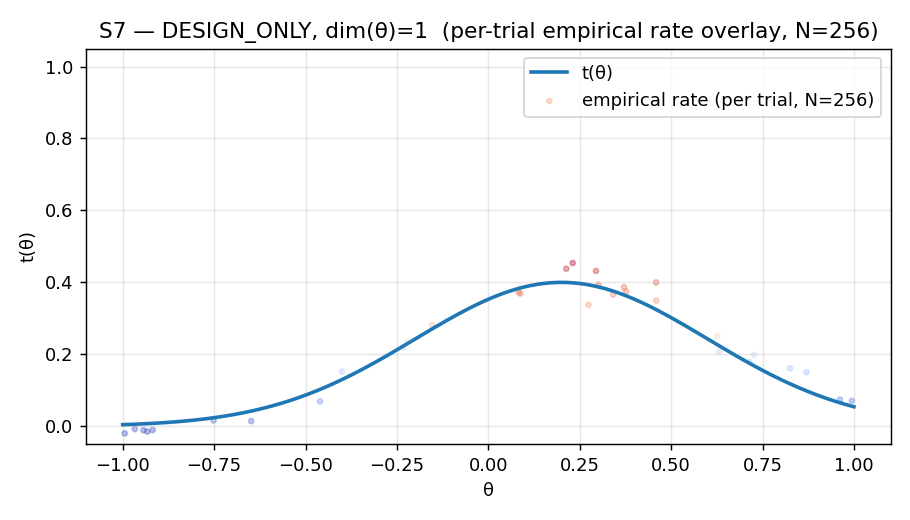
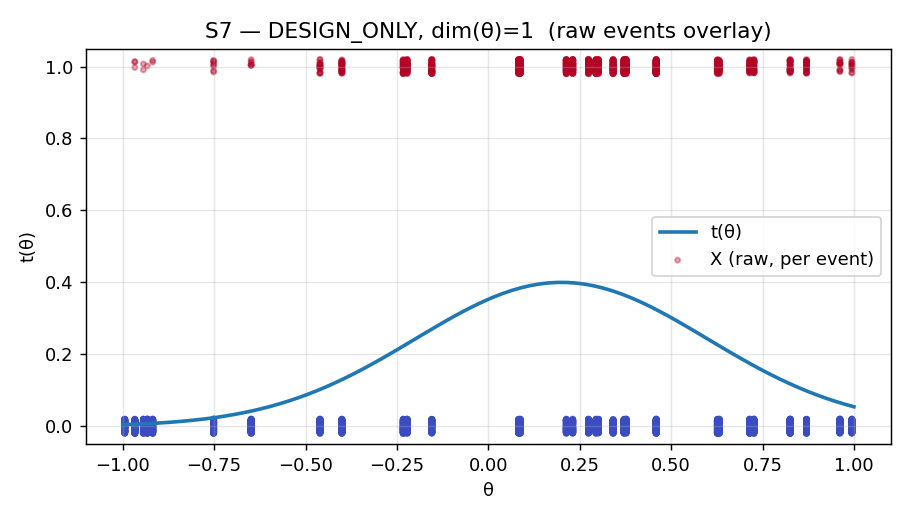
chore(viz): consistent raw-event dots + θ-projection plots
Two plotting conventions tightened up across Phase 1 and Phase 3:

1. Dots are always raw per-event (θ_k, X_ki) — never per-trial
   aggregates. Affects S7 in both phases (was per-trial empirical
   rate, now individual binary X). Visually you now see two horizontal
   stripes: y=0 (where X=0, dense everywhere) and y=1 (where X=1, the
   density along θ traces p(θ) directly).

2. Whenever dim(θ)=1, add a 1-D θ-projection plot. For DESIGN_ONLY
   (S7) the existing main plot already does this. For FULL with 1-D θ
   (S1, S3) the main plot is 2-D, so a separate `_theta.png` is added
   showing the φ-marginalized curves p̄(θ) and (in Phase 3) β̄(θ),
   estimated by MC over a uniform φ sample. Raw event dots overlay.

New artifacts:
  viz_output/pseudo_ground_truth_S1_theta.png
  viz_output/pseudo_ground_truth_S3_theta.png
  viz_output/cnp_reconstruction_S1_theta.png
  viz_output/cnp_reconstruction_S3_theta.png

Updated:
  viz_output/pseudo_ground_truth_S7.png
  viz_output/cnp_reconstruction_S7.png

Sanity: in S7's Phase-3 plot the predicted β closely tracks the
analytical p (peak ≈0.4 at θ≈0.2); raw red dots cluster densely at
y=1 near the peak and thin out toward the edges, which is the
direct visual signature of p(θ).

diff --git a/scripts/phase3_plot_reconstruction.py b/scripts/phase3_plot_reconstruction.py
@@ -189,13 +189,15 @@ def plot_S7(out: Path) -> None:
     tgt = StandardBatch(mode=InputMode.DESIGN_ONLY, theta=theta, labels=tgt_labels)
     beta = _predict_at(cnp, ctx, tgt)[:, 0]   # [G]
 
-    rate = ctx.labels.mean(axis=1)
-    overlay = (theta[:, 0], rate)
+    # Raw event dots: one per (trial, event_index_in_trial).
+    raw_theta = np.repeat(theta[:, 0], N_CTX)
+    raw_x = ctx.labels.flatten().astype(float)
     plot_comparison_1d(
         x=grid, analytical=p, predicted=beta, out_path=out,
-        title=f"S7 — DESIGN_ONLY, dim(θ)=1: analytical p vs predicted β (per-trial overlay, N={N_CTX})",
-        xlabel="θ", overlay_xy=overlay,
-        overlay_label=f"empirical rate per trial (N={N_CTX})",
+        title="S7 — DESIGN_ONLY, dim(θ)=1: analytical p vs predicted β",
+        xlabel="θ",
+        overlay_xy=(raw_theta, raw_x),
+        overlay_label="X (raw, per event)",
     )
 
 
@@ -366,6 +368,65 @@ PLOTTERS: dict[str, Callable[[Path], None]] = {
     "S5": plot_S5, "S6": plot_S6, "S7": plot_S7, "S8": plot_S8,
 }
 
+# Scenarios where dim(θ)=1 AND the main plot is 2D — these get an extra
+# 1-D θ-projection plot. S7 already shows θ as its main plot so it's
+# handled separately (we only fix its dot semantics there).
+THETA_1D_EXTRA_FOR = {"S1", "S3"}
+
+
+def _theta_marginal_predicted(
+    gen, cnp, theta_grid: np.ndarray, n_phi_mc: int = 200, seed: int = 11,
+) -> tuple[np.ndarray, np.ndarray]:
+    """Predict the φ-marginalized ``β̄(θ)`` and analytical ``p̄(θ)``.
+
+    Used for FULL-mode scenarios when projecting onto θ. ``ctx`` is
+    returned alongside the curves so the caller can scatter the raw
+    binary X events at each trial's θ.
+    """
+    rng = np.random.default_rng(seed)
+    G = theta_grid.shape[0]
+    theta = theta_grid[:, None]                                 # [G, 1]
+    phi_mc = rng.uniform(-1.0, 1.0, size=(G, n_phi_mc, gen.dim_phi))
+
+    # Analytical p̄(θ) via MC over φ.
+    theta_per_event = theta[:, None, :]
+    p_at_phi = gen.truth.evaluate(theta=theta_per_event, phi=phi_mc)  # [G, n_phi_mc]
+    p_curve = p_at_phi.mean(axis=1)
+
+    # Predicted β̄(θ) via MC over φ for each θ.
+    ctx = _build_context_FULL(gen, theta=theta, n_ctx=N_CTX, seed=seed)
+    tgt_labels = np.zeros((G, n_phi_mc), dtype=np.int8)
+    tgt = StandardBatch(
+        mode=InputMode.FULL, theta=theta, phi=phi_mc, labels=tgt_labels
+    )
+    beta_at_phi = _predict_at(cnp, ctx, tgt)                    # [G, n_phi_mc]
+    beta_curve = beta_at_phi.mean(axis=1)
+    return p_curve, beta_curve, ctx
+
+
+def _plot_theta_1d_full(name: str, gen, cnp, out_path: Path) -> None:
+    """θ-marginal 1-D plot for FULL-mode scenarios (S1, S3)."""
+    theta_grid = _grid_1d()
+    p_curve, beta_curve, ctx = _theta_marginal_predicted(gen, cnp, theta_grid)
+
+    # Raw per-event dots: (θ_k, X_ki) — one dot per event in the context.
+    raw_theta = np.repeat(ctx.theta[:, 0], N_CTX)
+    raw_x = ctx.labels.flatten().astype(float)
+
+    plot_comparison_1d(
+        x=theta_grid,
+        analytical=p_curve,
+        predicted=beta_curve,
+        out_path=out_path,
+        title=(
+            f"{name} — θ-projection (analytical and predicted "
+            f"both marginalized over φ ~ U[-1,1]^{gen.dim_phi})"
+        ),
+        xlabel="θ",
+        overlay_xy=(raw_theta, raw_x),
+        overlay_label="X (raw, per event)",
+    )
+
 
 def main() -> None:
     OUT_DIR.mkdir(exist_ok=True)
@@ -374,6 +435,22 @@ def main() -> None:
         print(f"  training & plotting {name} ...")
         fn(out)
         print(f"  wrote {out}")
+        if name in THETA_1D_EXTRA_FOR:
+            # Re-train for the projection (cheap: ~1 s); deliberate to keep
+            # each plotter self-contained and reproducible from the same seed.
+            torch.manual_seed(0)
+            np.random.seed(0)
+            gen = for_scenario(name, seed=0)
+            cnp = build_cnp(_enc_cfg(), gen.dim_theta, gen.dim_phi)
+            train_cnp(
+                cnp, gen,
+                cnp_config=_cnp_cfg(),
+                training_config=_train_cfg(name),
+            )
+            cnp.eval()
+            extra = OUT_DIR / f"cnp_reconstruction_{name}_theta.png"
+            _plot_theta_1d_full(name, gen, cnp, extra)
+            print(f"  wrote {extra}")
 
 
 if __name__ == "__main__":

diff --git a/scripts/phase1_plot_ground_truth.py b/scripts/phase1_plot_ground_truth.py
@@ -155,22 +155,23 @@ def plot_S6(out: Path) -> None:
 
 
 def plot_S7(out: Path) -> None:
-    """1D θ DESIGN_ONLY. Line + per-trial empirical rate scatter."""
+    """1D θ DESIGN_ONLY. Line + raw per-event scatter."""
     gen = for_scenario("S7", seed=0)
     grid = _grid_1d()
     p = gen.truth.evaluate(theta=grid[:, None], phi=None)  # (G,)
     batch = gen.generate(n_trials=N_TRIALS, n_events=N_EVENTS)
     assert batch.theta is not None
-    rate = batch.labels.mean(axis=1)  # (B,)
-    overlay = (batch.theta[:, 0], rate)
+    # Raw event dots: (trial's θ, individual X_i) — one dot per event.
+    raw_theta = np.repeat(batch.theta[:, 0], N_EVENTS)
+    raw_x = batch.labels.flatten().astype(float)
     plot_field(
         p, [grid],
         out_path=out,
-        title=f"S7 — DESIGN_ONLY, dim(θ)=1  (per-trial empirical rate overlay, N={N_EVENTS})",
+        title="S7 — DESIGN_ONLY, dim(θ)=1  (raw events overlay)",
         axis_labels=["θ"],
         value_label="t(θ)",
-        overlay_xy=overlay,
-        overlay_label=f"empirical rate (per trial, N={N_EVENTS})",
+        overlay_xy=(raw_theta, raw_x),
+        overlay_label="X (raw, per event)",
     )
 
 
@@ -188,10 +189,50 @@ def plot_S8(out: Path) -> None:
     )
 
 
+def _plot_theta_1d_marginal(
+    name: str, gen, out: Path, *, n_trials: int = N_TRIALS, n_events: int = N_EVENTS
+) -> None:
+    """Marginal-θ plot for FULL-mode scenarios with dim(θ)=1 (S1, S3).
+
+    Analytical curve is ``p̄(θ) = ∫ p(θ, φ) g(φ) dφ`` estimated by MC over
+    a uniform φ grid. Dots are raw per-event (θ_k, X_ki) — one dot per
+    event, never an aggregate.
+    """
+    grid = _grid_1d()
+    G = grid.shape[0]
+    rng = np.random.default_rng(11)
+    n_phi_mc = 200
+    phi_mc = rng.uniform(-1.0, 1.0, size=(G, n_phi_mc, gen.dim_phi))
+    theta_per_event = grid[:, None, None]  # [G, 1, 1]
+    p_at_phi = gen.truth.evaluate(theta=theta_per_event, phi=phi_mc)  # [G, n_phi_mc]
+    p_curve = p_at_phi.mean(axis=1)
+
+    batch = gen.generate(n_trials=n_trials, n_events=n_events)
+    assert batch.theta is not None
+    raw_theta = np.repeat(batch.theta[:, 0], n_events)
+    raw_x = batch.labels.flatten().astype(float)
+
+    plot_field(
+        p_curve, [grid],
+        out_path=out,
+        title=(
+            f"{name} — θ-projection (marginal over φ ~ U[-1,1]^{gen.dim_phi}); "
+            f"raw events overlay"
+        ),
+        axis_labels=["θ"],
+        value_label="t̄(θ)",
+        overlay_xy=(raw_theta, raw_x),
+        overlay_label="X (raw, per event)",
+    )
+
+
 PLOTTERS = {
     "S1": plot_S1, "S2": plot_S2, "S3": plot_S3, "S4": plot_S4,
     "S5": plot_S5, "S6": plot_S6, "S7": plot_S7, "S8": plot_S8,
 }
+
+# Scenarios with dim(θ)=1 whose main plot is 2D; add a θ-projection too.
+THETA_1D_EXTRA_FOR = {"S1", "S3"}
 
 
 def main() -> None:
@@ -200,6 +241,10 @@ def main() -> None:
         out = OUT_DIR / f"pseudo_ground_truth_{name}.png"
         fn(out)
         print(f"  wrote {out}")
+        if name in THETA_1D_EXTRA_FOR:
+            extra = OUT_DIR / f"pseudo_ground_truth_{name}_theta.png"
+            _plot_theta_1d_marginal(name, for_scenario(name, seed=0), extra)
+            print(f"  wrote {extra}")
 
 
 if __name__ == "__main__":
